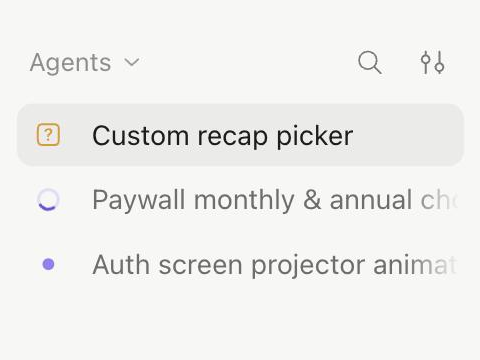
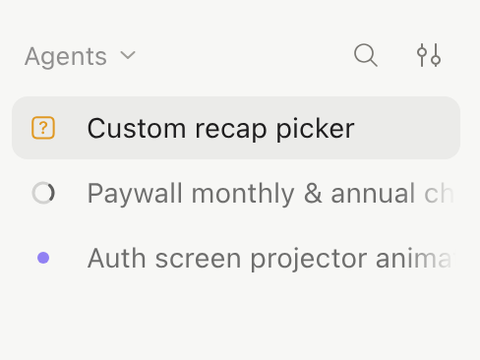
Update status image; cache-bust updated case study visuals

diff --git a/feature-driven-flow.html b/feature-driven-flow.html
@@ -519,7 +519,7 @@
         <div class="dg-lbl t t3"><p><span class="n">2</span><strong>The active conversation</strong>, directly beside its list.</p></div>
         <div class="dg-lbl t t2"><p><span class="n">5</span><strong>The features rail</strong> — the global project context.</p></div>
         <div class="shot">
-          <img src="assets/feature-driven-flow-03-293ad8b7.png" alt="The workspace: the chat list on the far left, the active conversation beside it, an open feature spec in the middle, and the features rail on the far right" />
+          <img src="assets/feature-driven-flow-03-293ad8b7.png?v=20261029" alt="The workspace: the chat list on the far left, the active conversation beside it, an open feature spec in the middle, and the features rail on the far right" />
           <span class="dg-lead l1"></span><span class="dg-lead l2"></span><span class="dg-lead l3"></span><span class="dg-lead l4"></span><span class="dg-lead l5"></span><span class="dg-lead l6"></span>
           <span class="dg-pin p1">1</span><span class="dg-pin p2">5</span><span class="dg-pin p3">3</span><span class="dg-pin p4">4</span><span class="dg-pin p5">6</span><span class="dg-pin p6">2</span>
         </div>
@@ -580,7 +580,7 @@
         </li>
         <li>
           <p><strong>Statuses carry the rest</strong> — each feature shows where it stands; each chat shows what the agent is doing: working, waiting for you, or finished.</p>
-          <div class="dec-img dec-alt"><img src="assets/feature-driven-flow-07-11784bb7.png" alt="The features rail: features grouped under Planning, Building and Done."><img src="assets/feature-driven-flow-08-6e4c395e.png" alt="The chat list: one chat waiting for you, one with the agent working, one finished."></div>
+          <div class="dec-img dec-alt"><img src="assets/feature-driven-flow-07-11784bb7.png" alt="The features rail: features grouped under Planning, Building and Done."><img src="assets/feature-driven-flow-08-6e4c395e.png?v=20261029" alt="The chat list: one chat waiting for you, one with the agent working, one finished."></div>
         </li>
       </ul>
     </div>
@@ -591,7 +591,7 @@
       <div class="s">90 seconds, prompt to commit</div>
     </div>
     <div class="body">
-      <video style="display:block;width:100%;height:auto;aspect-ratio:1600/1000;border-radius:12px;box-shadow:0 2px 6px rgba(17,17,17,.05),0 16px 48px rgba(17,17,17,.10);margin:0 0 8px;background:transparent" poster="assets/feature-driven-flow-09-89c5cd07.jpg" preload="auto" src="assets/feature-driven-flow-10-9b9032a4.mp4" autoplay muted loop playsinline></video>
+      <video style="display:block;width:100%;height:auto;aspect-ratio:1600/1000;border-radius:12px;box-shadow:0 2px 6px rgba(17,17,17,.05),0 16px 48px rgba(17,17,17,.10);margin:0 0 8px;background:transparent" poster="assets/feature-driven-flow-09-89c5cd07.jpg?v=20261029" preload="auto" src="assets/feature-driven-flow-10-9b9032a4.mp4?v=20261029" autoplay muted loop playsinline></video>
     </div>
   </div>
 </section>
